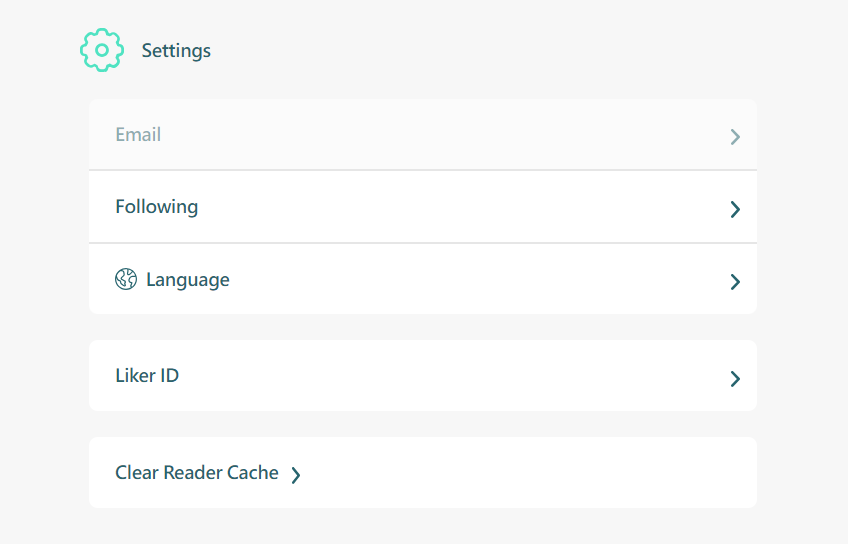
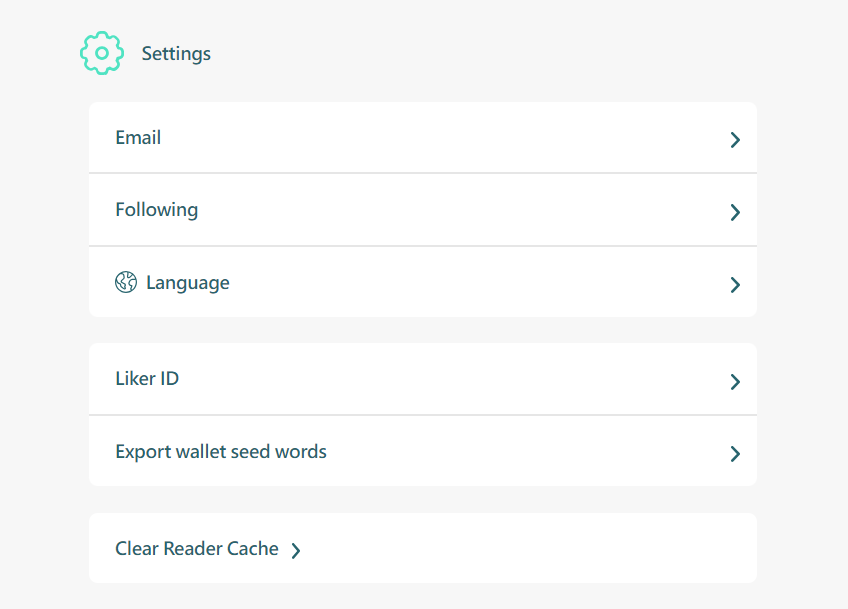
GITBOOK-4648: Export Wallet Seed Words

diff --git a/user-guide/liker-id/register-with-keplr.md b/user-guide/liker-id/register-with-keplr.md
@@ -10,19 +10,19 @@ Please note that once a Liker ID is confirmed, users cannot interchange between 
 
 ## **Comparison**
 
-| **Register with Keplr**                                                                                                                                                          | **Register Through Email/Social ( Authcore )**                                                                                                                                          |
-| -------------------------------------------------------------------------------------------------------------------------------------------------------------------------------- | --------------------------------------------------------------------------------------------------------------------------------------------------------------------------------------- |
-| Must have knowledge on blockchain and cryptocurrency                                                                                                                             | Friendly user experiences                                                                                                                                                               |
-| User has to manage his/her own private key, it's safer                                                                                                                           | Manage the private key by Authcore secure and frictionless sign-in solution, easy to use. User may also [export seed words](export-seed-words.md) and manage their own private key      |
-| Supports crypto currencies other than LikeCoin, such as ATOM, OSMO, AKT, CRO, KAVA, etc                                                                                          | Supports LikeCoin only                                                                                                                                                                  |
-| Login with Keplr only                                                                                                                                                            | Login with [Social Accounts](register/social-media-logins.md) ( Google, Facebook, etc ) or email                                                                                        |
-| Can only login with Chrome Keplr extension on desktop computer，**〔Cannot login the LikeCoin app〕**                                                                               | Login with [LikeCoin app](../liker-land/download.md) or Liker Land mobile web                                                                                                           |
-| Support hardware wallet                                                                                                                                                          | Do not support hardware wallet                                                                                                                                                          |
-| Need to enter the full wallet address during transfer                                                                                                                            | Enter recipient's Liker ID or wallet address in [LIKE pay](../../general-guides/wallet/like-pay.md)                                                                                     |
-| Use [dao.like.co to delegate LikeCoin](../../general-guides/stake/delegation-of-likecoin/#delegate-via-dao.like.co)                                                              | Use [LikeCoin app or dao.like.co to delegate LikeCoin](../../general-guides/stake/delegation-of-likecoin/)                                                                              |
-| Use [dao.like.co](https://dao.like.co/) to [deposit](../../general-guides/governance/proposal-deposit.md) or [vote](../../general-guides/governance/direct-vote/) for a proposal | Use [dao.like.co](https://dao.like.co/) to [deposit](../../general-guides/governance/proposal-deposit.md) or [direct vote](../../general-guides/governance/direct-vote/) for a proposal |
-| Check rewards by transaction only                                                                                                                                                | [Rewards](../creatortools/rewards.md) visualization from each piece of content on LikeCoin app                                                                                          |
-| Can register [ISCN](../../depub/what-is-iscn/app.like.co/), [puchase NFT eBook](../../depub/nft-ebook/) and  [Writing NFT](../../depub/collect-writing-nft/)                     | Can register [ISCN](../../depub/what-is-iscn/app.like.co/), [purcahse NFT eBook](../../depub/nft-ebook/) and [Writing NFT](../../depub/collect-writing-nft/)                            |
+| **Register with Keplr**                                                                                                                                                          | **Register Through Email/Social ( Authcore )**                                                                                                                                              |
+| -------------------------------------------------------------------------------------------------------------------------------------------------------------------------------- | ------------------------------------------------------------------------------------------------------------------------------------------------------------------------------------------- |
+| Must have knowledge on blockchain and cryptocurrency                                                                                                                             | Friendly user experiences                                                                                                                                                                   |
+| User has to manage his/her own private key, it's safer                                                                                                                           | Manage the private key by Authcore secure and frictionless sign-in solution, easy to use. User may also [export seed words](register/export-seed-words.md) and manage their own private key |
+| Supports crypto currencies other than LikeCoin, such as ATOM, OSMO, AKT, CRO, KAVA, etc                                                                                          | Supports LikeCoin only                                                                                                                                                                      |
+| Login with Keplr only                                                                                                                                                            | Login with [Social Accounts](register/social-media-logins.md) ( Google, Facebook, etc ) or email                                                                                            |
+| Can only login with Chrome Keplr extension on desktop computer，**〔Cannot login the LikeCoin app〕**                                                                               | Login with [LikeCoin app](../liker-land/download.md) or Liker Land mobile web                                                                                                               |
+| Support hardware wallet                                                                                                                                                          | Do not support hardware wallet                                                                                                                                                              |
+| Need to enter the full wallet address during transfer                                                                                                                            | Enter recipient's Liker ID or wallet address in [LIKE pay](../../general-guides/wallet/like-pay.md)                                                                                         |
+| Use [dao.like.co to delegate LikeCoin](../../general-guides/stake/delegation-of-likecoin/#delegate-via-dao.like.co)                                                              | Use [LikeCoin app or dao.like.co to delegate LikeCoin](../../general-guides/stake/delegation-of-likecoin/)                                                                                  |
+| Use [dao.like.co](https://dao.like.co/) to [deposit](../../general-guides/governance/proposal-deposit.md) or [vote](../../general-guides/governance/direct-vote/) for a proposal | Use [dao.like.co](https://dao.like.co/) to [deposit](../../general-guides/governance/proposal-deposit.md) or [direct vote](../../general-guides/governance/direct-vote/) for a proposal     |
+| Check rewards by transaction only                                                                                                                                                | [Rewards](../creatortools/rewards.md) visualization from each piece of content on LikeCoin app                                                                                              |
+| Can register [ISCN](../../depub/what-is-iscn/app.like.co/), [puchase NFT eBook](../../depub/nft-ebook/) and  [Writing NFT](../../depub/collect-writing-nft/)                     | Can register [ISCN](../../depub/what-is-iscn/app.like.co/), [purcahse NFT eBook](../../depub/nft-ebook/) and [Writing NFT](../../depub/collect-writing-nft/)                                |
 
 
 

diff --git a/user-guide/liker-id/register/export-seed-words.md b/user-guide/liker-id/register/export-seed-words.md
@@ -1,0 +1,108 @@
+---
+description: LikeCoin wallet can finally export seed words
+---
+
+# Export Wallet Seed Words
+
+Starting in April 2022, users can export seed words from [Liker ID registered through the Email/Social (with Authcore)](./) and import them into, for example, Keplr, to manage their [LikeCoin](https://like.co/).
+
+Before exporting the seed words, please note:
+
+* Ensure that your network and surrounding environment are secure.
+* Scan the computer you are using for viruses to ensure it is free from viruses or Trojans.
+
+## Export Seed Words from the LikeCoin App
+
+### Step 1: Start exporting the wallet seed words
+
+Click on Settings in the lower right corner, then click "Export Seed Words".
+
+<figure><img src="../../../.gitbook/assets/seed word mobile 1-en.png" alt=""><figcaption><p>Click "Export Seed Words"</p></figcaption></figure>
+
+### Step 2: Acknowledge the warning
+
+Click "Confirm", and the system will prompt you to log in to your account again.
+
+<figure><img src="../../../.gitbook/assets/seed word mobile 2-en.png" alt=""><figcaption><p>Click "Confirm"</p></figcaption></figure>
+
+### Step 3: Enter your Authcore password
+
+Enter the password again and click "Confirm".
+
+<figure><img src="../../../.gitbook/assets/seed word mobile 3-en.png" alt=""><figcaption><p>Enter the password again and click "Confirm"</p></figcaption></figure>
+
+### Step 4: Display the seed words
+
+Click "Copy" to copy them to another location.
+
+<figure><img src="../../../.gitbook/assets/seed word mobile 4-en.png" alt=""><figcaption><p>Click "Copy" to copy the seed words</p></figcaption></figure>
+
+You can then import the seed words into Keplr, Cosmostation, Leap, or other wallets that support the Cosmos ecosystem.
+
+## Export Seed Words from a Desktop Computer
+
+### Step 1: Go to the URL for exporting seed words
+
+Go to the upper right corner of the [Liker Land website](https://liker.land/en) and click "Enter Store".
+
+<figure><img src="../../../.gitbook/assets/Authcore 1-en.png" alt=""><figcaption><p> Click "Enter Store"</p></figcaption></figure>
+
+Click "Login".
+
+<figure><img src="../../../.gitbook/assets/Authcore 2-en.png" alt=""><figcaption><p>Click "Login"</p></figcaption></figure>
+
+Click "Email/Social" using Liker ID by email or social login
+
+<figure><img src="../../../.gitbook/assets/Authcore 3-en.png" alt=""><figcaption><p>Click Email/Social using Liker ID by email or social login</p></figcaption></figure>
+
+After logging in, click on the avatar in the upper right corner, click ‘Settings’, and then click ‘Export wallet seed words".
+
+<figure><img src="../../../.gitbook/assets/Seed Words 0-en.png" alt=""><figcaption><p>Click ‘Settings’, and then click ‘Export wallet seed words"</p></figcaption></figure>
+
+Click "Accept" on the warning message.
+
+![Click "Accept" on the warning message.](<../../../.gitbook/assets/Seed Words 1en.png>)
+
+### Step 2: Reauthenticate your identity
+
+Click "Press to reauthenticate".
+
+![Click "Press to reauthenticate"](<../../../.gitbook/assets/Seed Words 2en.png>)
+
+### Step 3: Re-login to Liker Land
+
+Log in to [Liker Land](https://like.co/) with [Keplr](../../../general-guides/wallet/keplr/) or [LikeCoin app](../../liker-land/download.md).
+
+<figure><img src="../../../.gitbook/assets/Seed Words 3pre-en.png" alt=""><figcaption></figcaption></figure>
+
+Or Click "Switch to legacy interface" to log in to [Liker Land](https://like.co/) with your email and password, or use any [social profile](social-media-logins.md) login.
+
+![Re-login to Liker Land](<../../../.gitbook/assets/Seed Words 3en.png>)
+
+### Step 4: Enter your Authcore password
+
+Enter your login password and click "Show Seed Words".
+
+![Enter your login password and click "Show Seed Words"](<../../../.gitbook/assets/Seed Words 4en.png>)
+
+### Step 5: Copy the seed words
+
+Click "Copy" to copy the seed words.
+
+![Click "Copy" to copy the seed words](<../../../.gitbook/assets/Seed Words 5en.png>)
+
+{% content-ref url="../../../general-guides/wallet/keplr/import-wallet-into-keplr.md" %}
+[import-wallet-into-keplr.md](../../../general-guides/wallet/keplr/import-wallet-into-keplr.md)
+{% endcontent-ref %}
+
+{% content-ref url="../../../general-guides/wallet/cosmostation/import-wallet-into-cosmostation.md" %}
+[import-wallet-into-cosmostation.md](../../../general-guides/wallet/cosmostation/import-wallet-into-cosmostation.md)
+{% endcontent-ref %}
+
+{% content-ref url="../../../general-guides/wallet/cosmostation-app/import-wallet-into-cosmostation-app.md" %}
+[import-wallet-into-cosmostation-app.md](../../../general-guides/wallet/cosmostation-app/import-wallet-into-cosmostation-app.md)
+{% endcontent-ref %}
+
+{% content-ref url="../../../general-guides/wallet/leap/mport-wallet-into-leap.md" %}
+[mport-wallet-into-leap.md](../../../general-guides/wallet/leap/mport-wallet-into-leap.md)
+{% endcontent-ref %}

diff --git a/user-guide/liker-id/README.md b/user-guide/liker-id/README.md
@@ -8,5 +8,5 @@ A citizen in LikeCoin DAO is known as a Liker. Each Liker has a unique Liker ID 
 
 Users can register a Liker ID using either of these two mechanisms:
 
-* [Email/Social ( Authcore )](register/) - Users can register a Liker ID on the [LikeCoin app](https://liker.land/getapp) to [manage](../../general-guides/wallet/like-pay.md), [delegate](../../general-guides/stake/delegation-of-likecoin/) LikeCoin, and check out [rewards](../creatortools/rewards.md). Users are advised to [export your seed words](export-seed-words.md) from Authcore and import them into [Keplr](../../general-guides/wallet/keplr/) in order to manage their LikeCoin effectively.
+* [Email/Social ( Authcore )](register/) - Users can register a Liker ID on the [LikeCoin app](https://liker.land/getapp) to [manage](../../general-guides/wallet/like-pay.md), [delegate](../../general-guides/stake/delegation-of-likecoin/) LikeCoin, and check out [rewards](../creatortools/rewards.md). Users are advised to [export your seed words](register/export-seed-words.md) from Authcore and import them into [Keplr](../../general-guides/wallet/keplr/) in order to manage their LikeCoin effectively.
 * [Keplr](register-with-keplr.md) - Register a Liker ID via the Keplr Chrome/Brave browser extension. Users can use [dao.like.co](https://dao.like.co/) to manage and delegate LikeCoin.

diff --git a/user-guide/liker-id/register/README.md b/user-guide/liker-id/register/README.md
@@ -4,7 +4,7 @@ description: Login by social media accounts, Matters, or email/password
 
 # Register a Liker ID through Email/Social (with Authcore)
 
-Using the [LikeCoin app](https://liker.land/getapp), you can register a Liker ID through Email/Social (with Authcore). Users can also [export their seed words from Authcore](../export-seed-words.md) and import them into [Keplr](../../../general-guides/wallet/keplr/) or other wallets to manage their LikeCoin.
+Using the [LikeCoin app](https://liker.land/getapp), you can register a Liker ID through Email/Social (with Authcore). Users can also [export their seed words from Authcore](export-seed-words.md) and import them into [Keplr](../../../general-guides/wallet/keplr/) or other wallets to manage their LikeCoin.
 
 ## Register a Liker ID through Email/Social (with Authcore) using the LikeCoin app
 

diff --git a/SUMMARY.md b/SUMMARY.md
@@ -234,9 +234,9 @@
     * [Connecting to my social account](user-guide/liker-id/register/social-media-logins.md)
     * [Resetting password](user-guide/liker-id/register/reset-password.md)
     * [Manage logged in devices](user-guide/liker-id/register/devices.md)
+    * [Export Wallet Seed Words](user-guide/liker-id/register/export-seed-words.md)
     * [What is Authcore?](user-guide/liker-id/register/what-is-authcore.md)
   * [Register a Liker ID with Keplr](user-guide/liker-id/register-with-keplr.md)
-  * [Export Seed Words from LikeCoin app](user-guide/liker-id/export-seed-words.md)
   * [Edit Avatar and Name](user-guide/liker-id/edit-avatar-displayname.md)
 * [LikeCoin app](user-guide/liker-land/README.md)
   * [Download LikeCoin app](user-guide/liker-land/download.md)

diff --git a/general-guides/wallet/cosmostation-app/README.md b/general-guides/wallet/cosmostation-app/README.md
@@ -34,8 +34,8 @@ Please note that Cosmostation does not support the registration of Liker ID yet.
 
 #### You may also export seed words from Liker Land and import them to Cosmostation app:
 
-{% content-ref url="../../../user-guide/liker-id/export-seed-words.md" %}
-[export-seed-words.md](../../../user-guide/liker-id/export-seed-words.md)
+{% content-ref url="../../../user-guide/liker-id/register/export-seed-words.md" %}
+[export-seed-words.md](../../../user-guide/liker-id/register/export-seed-words.md)
 {% endcontent-ref %}
 
 {% content-ref url="import-wallet-into-cosmostation-app.md" %}

diff --git a/general-guides/wallet/keplr-mobile/README.md b/general-guides/wallet/keplr-mobile/README.md
@@ -32,8 +32,8 @@ Keplr Mobile is the mobile wallet provided by Keplr. With the convenience of you
 
 #### You may also export seed words from Liker Land and import them to Keplr Mobile:
 
-{% content-ref url="../../../user-guide/liker-id/export-seed-words.md" %}
-[export-seed-words.md](../../../user-guide/liker-id/export-seed-words.md)
+{% content-ref url="../../../user-guide/liker-id/register/export-seed-words.md" %}
+[export-seed-words.md](../../../user-guide/liker-id/register/export-seed-words.md)
 {% endcontent-ref %}
 
 {% content-ref url="import-wallet-into-keplr-mobile.md" %}

diff --git a/general-guides/wallet/cosmostation/README.md b/general-guides/wallet/cosmostation/README.md
@@ -30,8 +30,8 @@ Note that the Cosmostation does not support registration of Liker ID yet.
 
 #### You may also export seed words from Liker Land and import them to Cosmostation.&#x20;
 
-{% content-ref url="../../../user-guide/liker-id/export-seed-words.md" %}
-[export-seed-words.md](../../../user-guide/liker-id/export-seed-words.md)
+{% content-ref url="../../../user-guide/liker-id/register/export-seed-words.md" %}
+[export-seed-words.md](../../../user-guide/liker-id/register/export-seed-words.md)
 {% endcontent-ref %}
 
 {% content-ref url="import-wallet-into-cosmostation.md" %}

diff --git a/general-guides/wallet/keplr/README.md b/general-guides/wallet/keplr/README.md
@@ -28,8 +28,8 @@ Please note that the Keplr mobile app currently does not support LikeCoin.
 
 #### You may also export seed words from Liker Land and import them to Keplr:
 
-{% content-ref url="../../../user-guide/liker-id/export-seed-words.md" %}
-[export-seed-words.md](../../../user-guide/liker-id/export-seed-words.md)
+{% content-ref url="../../../user-guide/liker-id/register/export-seed-words.md" %}
+[export-seed-words.md](../../../user-guide/liker-id/register/export-seed-words.md)
 {% endcontent-ref %}
 
 {% content-ref url="import-wallet-into-keplr.md" %}

diff --git a/general-guides/wallet/leap/README.md b/general-guides/wallet/leap/README.md
@@ -34,8 +34,8 @@ Note that Leap does not support the registration of Liker ID yet.
 
 #### You may also export seed words from Liker Land and import them to Leap:
 
-{% content-ref url="../../../user-guide/liker-id/export-seed-words.md" %}
-[export-seed-words.md](../../../user-guide/liker-id/export-seed-words.md)
+{% content-ref url="../../../user-guide/liker-id/register/export-seed-words.md" %}
+[export-seed-words.md](../../../user-guide/liker-id/register/export-seed-words.md)
 {% endcontent-ref %}
 
 {% content-ref url="mport-wallet-into-leap.md" %}

diff --git a/user-guide/liker-land/download.md b/user-guide/liker-land/download.md
@@ -37,6 +37,6 @@ Log in to the LikeCoin app and you can find the following:
 * [Profile](../liker-id/edit-avatar-displayname.md)
 * Security: [Change Password](../liker-id/register/reset-password.md), [2FA](../liker-id/register/verifying-email-address.md), [Devices](../liker-id/register/devices.md), [Social Account Login](../liker-id/register/social-media-logins.md)
 * Wallet Connect
-* [Export Seed Words](../liker-id/export-seed-words.md)
+* [Export Seed Words](../liker-id/register/export-seed-words.md)
 * Bookmarks
 * [Tweets](superlike.md)

diff --git a/faq.md b/faq.md
@@ -96,7 +96,7 @@ description: Frequently Asked Questions
 * [How to register a Liker ID?](user-guide/liker-id/)
 * [What is Authcore?](user-guide/liker-id/register/what-is-authcore.md)
 * [Cannot login Liker Land with your Liker ID and don't know what to do? Try resetting password!](user-guide/liker-id/register/reset-password.md)
-* [Can I export my private key?](user-guide/liker-id/export-seed-words.md)
+* [Can I export my private key?](user-guide/liker-id/register/export-seed-words.md)
 
 ### [LikeCoin button](faq.md#likecoin-button)
 
